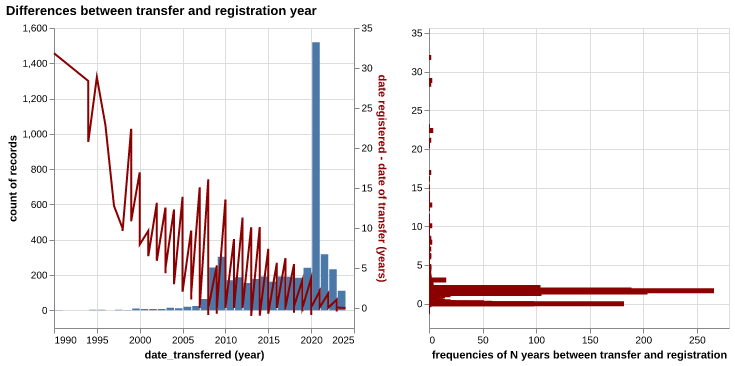
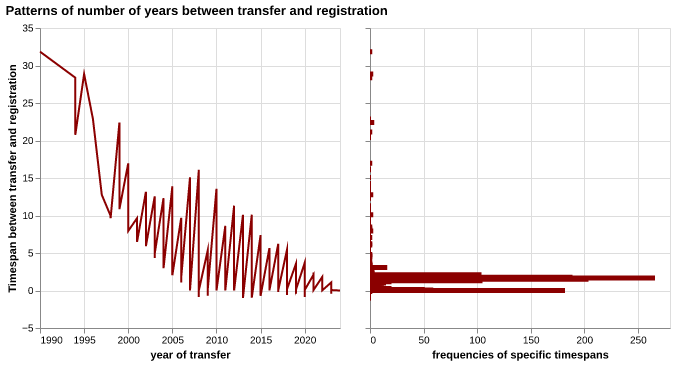
update date patterns chart

diff --git a/code/charity_commission.py b/code/charity_commission.py
@@ -145,29 +145,12 @@ chart
 
 # %%
 # distribution of timespans between transfer and registration
-chart_transfer_bar = (
-    alt.Chart(df['date_transferred'].to_frame())
-    .mark_bar()
-    .encode(
-        alt.X('year(date_transferred):T'),
-        alt.Y('count():Q').title('count of records').scale(
-            alt.Scale(domain=[-100, 1600])
-        )
-    )
-)
-
 chart_diff_line = (
     alt.Chart(df[['date_transferred', 'registered-transfer']])
     .mark_line(color='darkred')
     .encode(
-        alt.X('year(date_transferred):T'),
-        alt.Y('registered-transfer:Q').axis(
-            alt.Axis(
-                title='date registered - date of transfer (years)',
-                titleColor='darkred'
-            )
-        ).scale(alt.Scale(domain=[-2.5, 35])),
-        alt.Tooltip('registered-transfer:Q'),
+        alt.X('year(date_transferred):T').title('year of transfer'),
+        alt.Y('registered-transfer:Q').title('Timespan between transfer and registration'),
     )
 )
 
@@ -175,19 +158,14 @@ chart_diff_hist = (
     alt.Chart(df['registered-transfer'].to_frame())
     .mark_bar(color='darkred')
     .encode(
-        alt.X('count():Q').title(
-            'frequencies of N years between transfer and registration'
-        ),
-        alt.Y('registered-transfer:Q').title('').scale(alt.Scale(domain=[-2.5, 35])),
+        alt.X('count():Q').title('frequencies of specific timespans'),
+        alt.Y('registered-transfer:Q').title('').axis(labels=False),
     )
 )
 
 chart = (
-    alt.hconcat(
-        (chart_transfer_bar + chart_diff_line).resolve_scale(y='independent'),
-        chart_diff_hist
-    )
-    .properties(title='Differences between transfer and registration year')
+    alt.hconcat(chart_diff_line, chart_diff_hist).resolve_axis(y='shared')
+    .properties(title='Patterns of number of years between transfer and registration')
 )
 
 chart.save('../charts/diff_transfer_registration_year.png')
